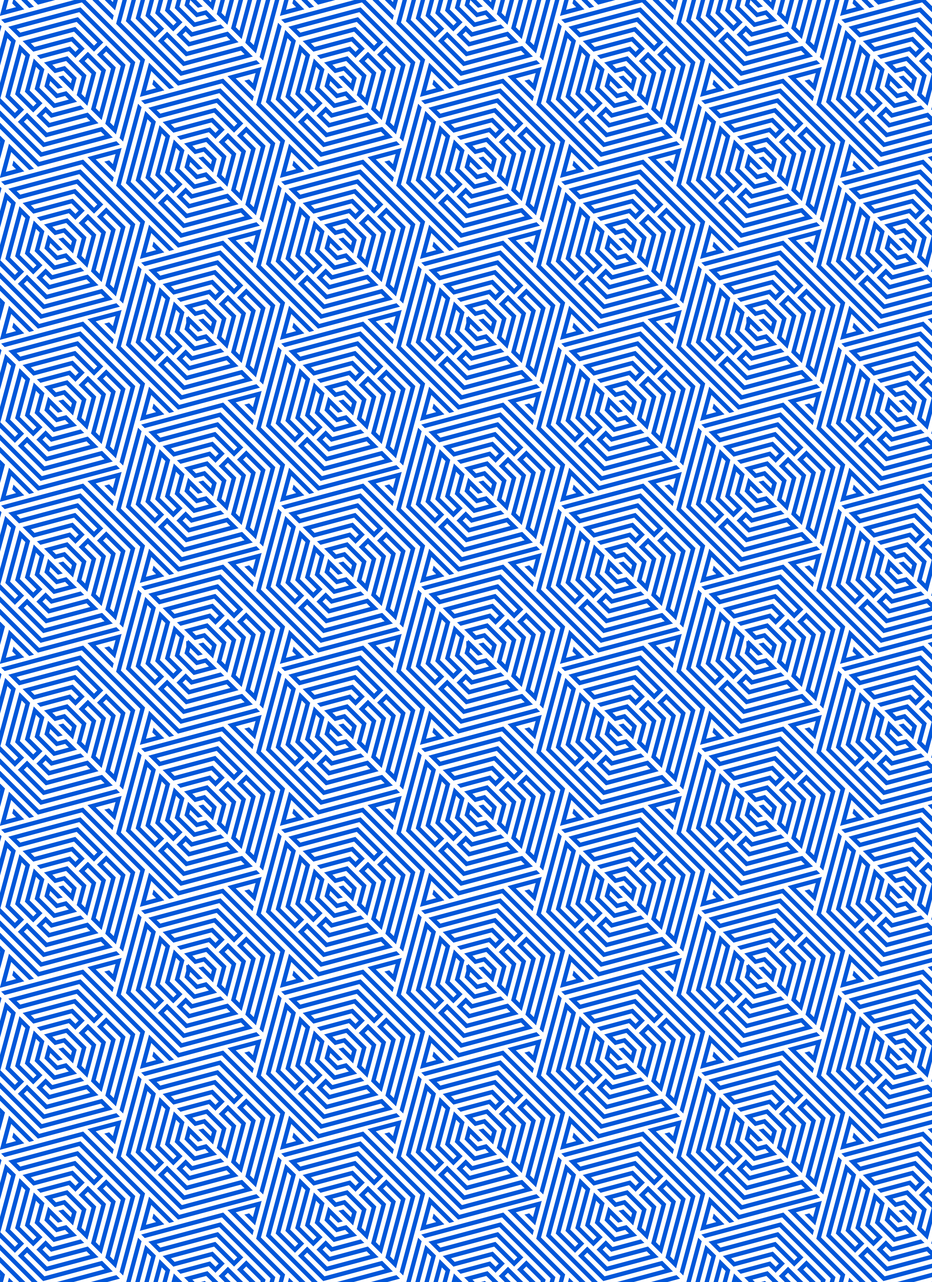
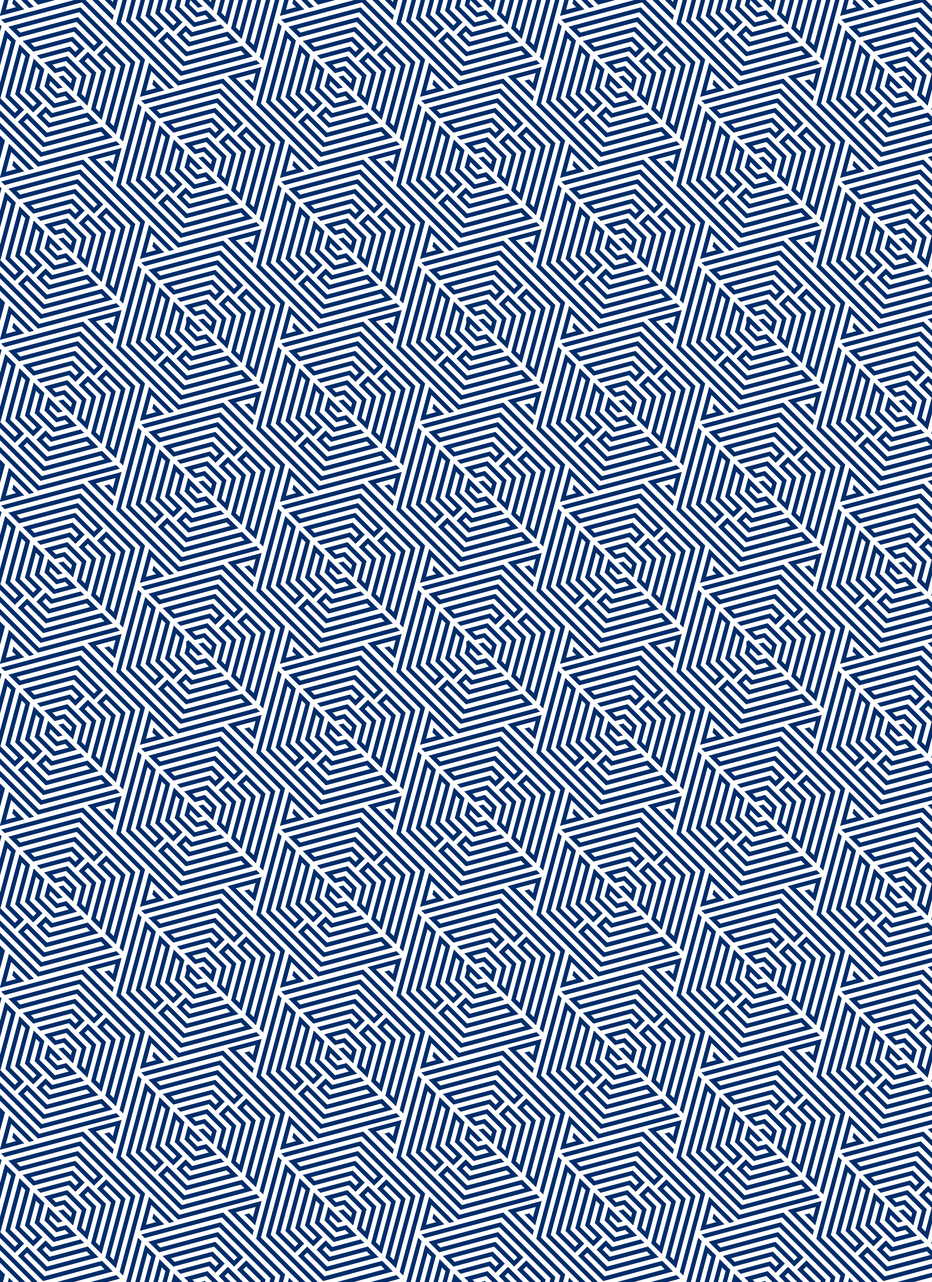
correccion de colores

diff --git a/index.html b/index.html
@@ -3,7 +3,7 @@
 <head>
     <meta charset="UTF-8">
     <meta name="viewport" content="width=device-width, initial-scale=1.0">
-    <title>Fuel Calculatos | By Sebastian Saez</title>
+    <title>Fuel Calculator | By Sebastian Saez</title>
     <link rel="stylesheet" href="./css/style.css">
 </head>
 <body>

diff --git a/css/style.css b/css/style.css
@@ -7,7 +7,7 @@
     --color-blanco: white;
     --celeste: #6bb8f0;
     --azul-oscuro: #1b447c;
-    --azul-claro: #0058d0;
+    --azul-claro: #003067;
     --amarillo: #ffd900;
     --gris: rgb(241, 241, 241)
 
